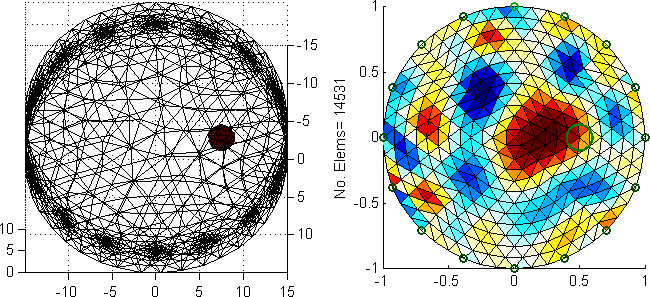
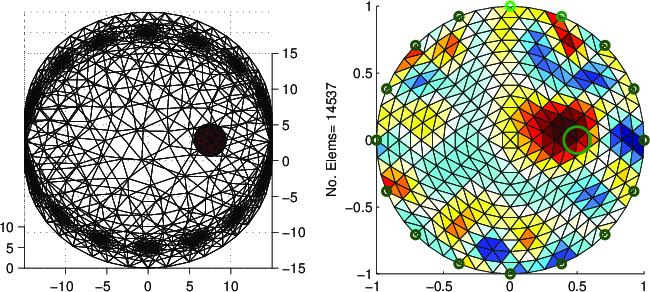
new meshgen interface for meshsize_parameter
git-svn-id: svn://svn.code.sf.net/p/eidors3d/code/trunk@2695 82006732-fb7e-4a22-9f28-86a212cce563

diff --git a/htdocs/tutorial/netgen/meshsize_param01.m b/htdocs/tutorial/netgen/meshsize_param01.m
@@ -1,10 +1,13 @@
 % Call Netgen $Id$ 
-electrodes_per_plane= 16;
-number_of_planes= 1;
-movement_pattern='radial_turn';
-tank_height= 10;
-finelevel=''; %finelevel='-fine'; Other option
-refine_electrodes=0;
-fno_max=1;
-maxh= ''; %don't use max h
-move_the_ball % CALL NETGEN
+stim = mk_stim_patterns(16,1,'{ad}','{ad}',{},1);
+fmdl = ng_mk_cyl_models([10,15],[16,5],[0.5]);
+fmdl.stimulation= stim;
+img = mk_image(fmdl,1);
+vh = fwd_solve(img);
+
+extra={'ball','solid ball = sphere(7.5,0,5;2);'};
+[fmdl,mat_idx] = ng_mk_cyl_models([10,15],[16,5],[0.5],extra);
+fmdl.stimulation= stim;
+img = mk_image(fmdl,1);
+img.elem_data(mat_idx{2}) = 1.1;
+vi = fwd_solve(img);

diff --git a/htdocs/tutorial/netgen/meshsize_param02.m b/htdocs/tutorial/netgen/meshsize_param02.m
@@ -7,7 +7,7 @@ th= linspace(0,2*pi,100); th(end)= [];
 xcirc= 0.5+0.1*cos(th); ycirc= 0.1*sin(th);
 
 subplot(121);
-show_fem(img); view(90,60);
+show_fem(img); view(0,60);
 
 subplot(122);
 show_fem(inv_solve( imdl, vh, vi(1)));
@@ -15,4 +15,4 @@ line(xcirc,ycirc,'Color',[0,0.5,0],'LineWidth',2);
 axis image
 ylabel(sprintf('No. Elems= %d', size(img.fwd_model.elems,1)));
 
-print -dpng -r100 meshsize_param02a.png
+print_convert meshsize_param02a.png '-density 100'
